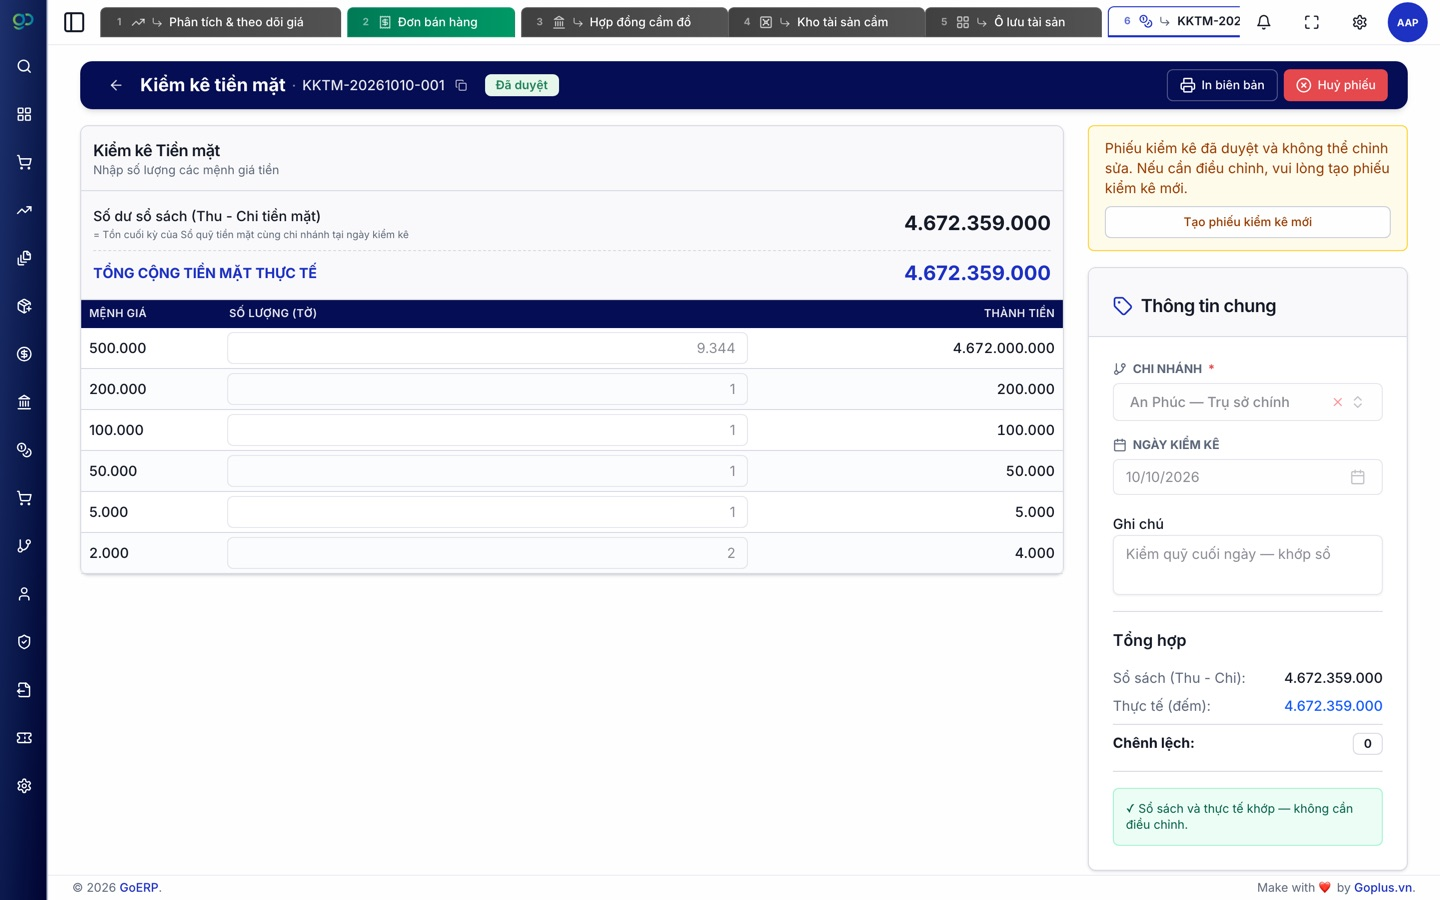
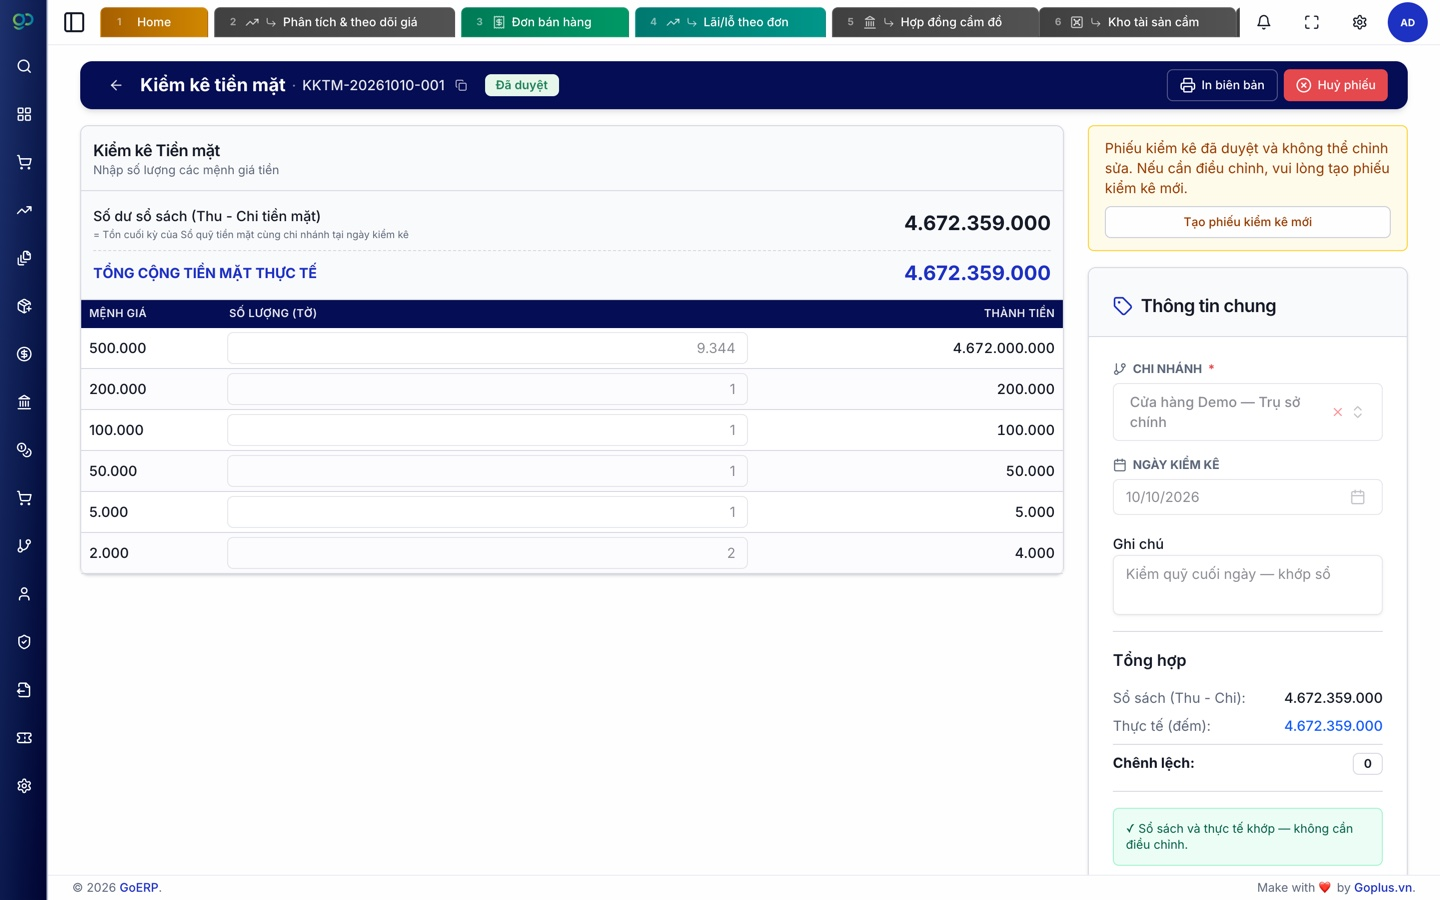
chore: use generic Cua hang Demo store name, anonymize customer data, and replace GoEat link in footer

diff --git a/src/components/vb-shared.tsx b/src/components/vb-shared.tsx
@@ -44,7 +44,6 @@ export const CONTACT = {
 }
 
 export const GOPLUS_URL = "https://goplus.vn"
-export const GOEAT_URL = "https://goeat.vn"
 
 export const HEADING_STYLE = {
   fontSize: "clamp(1.65rem, 2.6vw, 2.25rem)",
@@ -584,7 +583,7 @@ export const FEATURE_MODULES = [
     ],
     example:
       "9:15 nguồn tăng bạc miếng thêm 10.000đ/lượng → cả 5 chi nhánh hiện giá mới; đơn chốt lúc 9:10 vẫn tính giá cũ.",
-    src: "/images/screens/gia-bac-thi-truong.jpg",
+    src: "/images/screens/gia-bac-thi-truong.jpg?v=3",
     alt: "Biểu đồ giá bán, giá mua của tiệm so với giá bạc thế giới",
   },
   {
@@ -607,7 +606,7 @@ export const FEATURE_MODULES = [
     ],
     example:
       "Khách mua 2 lượng bạc miếng, quét QR trả 2.360.000đ → ngân hàng báo có, đơn tự chuyển sang đã thanh toán.",
-    src: "/images/screens/quay-phu-quy.jpg",
+    src: "/images/screens/quay-phu-quy.jpg?v=3",
     alt: "Quầy bán bạc và vàng Phú Quý: thẻ sản phẩm có giá mua, giá bán theo bảng giá; giỏ hàng chuyển qua lại Bán hàng, Thu mua",
   },
   {
@@ -639,7 +638,7 @@ export const FEATURE_MODULES = [
     ],
     example:
       "Khách đặt hợp đồng 10 lượng bạc hẹn giao tuần sau, nay giá tăng muốn bán lại ngay → bấm Mua lại hợp đồng để tất toán và tính chênh lệch tự động.",
-    src: "/images/screens/don-ban-thu-tien.jpg",
+    src: "/images/screens/don-ban-thu-tien.jpg?v=3",
     alt: "Danh sách đơn bán hàng và hợp đồng vật chất: tiền cọc, phần chưa thanh toán và tổng tiền từng đơn",
   },
   {
@@ -671,7 +670,7 @@ export const FEATURE_MODULES = [
     ],
     example:
       "Khách chốt đơn SO-AU-261014-0002 → tạo đơn đặt Phú Quý YD2610140918K ngay trên phần mềm, hiện rõ chiết khấu 5.633.000đ và biên lời +2,45%.",
-    src: "/images/screens/dat-hang-phu-quy.jpg?v=2",
+    src: "/images/screens/dat-hang-phu-quy.jpg?v=3",
     alt: "Danh sách đơn đặt hàng kết nối hệ thống Phú Quý: mã đơn Phú Quý, chiết khấu đại lý và biên lời từng đơn",
   },
   {
@@ -703,7 +702,7 @@ export const FEATURE_MODULES = [
     ],
     example:
       "Trong ca sáng thu mua 5 đơn bạc thỏi từ khách → bấm Tạo bán lại, hệ thống khớp phiên và trả về mã BYD2610140912K kèm giá trị chốt.",
-    src: "/images/screens/mua-ban-lai-phu-quy.jpg?v=2",
+    src: "/images/screens/mua-ban-lai-phu-quy.jpg?v=3",
     alt: "Màn hình quản lý bán lại Phú Quý: trạng thái đã bán lại đủ, bán lại một phần và mã đơn bán lại BYD",
   },
   {
@@ -729,7 +728,7 @@ export const FEATURE_MODULES = [
     ],
     example:
       "Nhẫn 18K nặng 1,25 chỉ, giá tuổi 18K 6.200.000đ/chỉ, tiền công 300.000đ → khách trả 8.050.000đ.",
-    src: "/images/screens/ban-vang-tuoi.jpg",
+    src: "/images/screens/ban-vang-tuoi.jpg?v=3",
     alt: "Quầy vàng truyền thống: mỗi món ghi khối lượng × giá tuổi vàng, cộng tiền công, tiền đá",
   },
   {
@@ -762,7 +761,7 @@ export const FEATURE_MODULES = [
     ],
     example:
       "Chọn Kiềng cưới 9999 chạm rồng phượng 5 chỉ, công 1.200.000đ → bấm Gửi máy in, tem 2 cánh ra ngay trong 1 giây.",
-    src: "/images/screens/in-tem-kim-hoan.jpg?v=2",
+    src: "/images/screens/in-tem-kim-hoan.jpg?v=3",
     alt: "Màn hình in tem kim hoàn TSPL/ZPL với khung xem trước tem trang sức 2 cánh",
   },
   {
@@ -785,7 +784,7 @@ export const FEATURE_MODULES = [
     ],
     example:
       "Khách bán nhẫn 18K cân 2,35 chỉ, đá 0,12 chỉ → tính 2,23 chỉ × giá thu 18K; đổi lấy dây mới thì chỉ trả phần chênh.",
-    src: "/images/screens/thu-mua-can.jpg",
+    src: "/images/screens/thu-mua-can.jpg?v=3",
     alt: "Giỏ thu mua ba món: dây chuyền 18K cân 3,25 chỉ, trừ đá 0,18 chỉ, trừ dơ 0,04 chỉ, ra tiền trả khách",
   },
   {
@@ -794,7 +793,7 @@ export const FEATURE_MODULES = [
     name: "Cầm đồ",
     when: "Có khách",
     scope: "Cầm đồ",
-    brief: "Tính lãi phí theo ngày, nhắc hạn chuộc qua Zalo.",
+    brief: "Tính lãi phí, nhắc hạn chuộc qua Zalo.",
     title: "Hợp đồng cầm đồ: đúng lãi phí, tự nhắc hạn chuộc",
     text: "Nhận tài sản, giao tiền cầm theo gói lãi phí và hạn mức cầm của tiệm. Đóng lãi, gia hạn, chuộc đều tính theo số ngày thực tế, làm tròn lên 1.000đ.",
     points: [
@@ -808,7 +807,7 @@ export const FEATURE_MODULES = [
     ],
     example:
       "Cầm 15.000.000đ, gói 1,5%/tháng, chuộc sau 20 ngày → lãi phí 150.000đ; còn 3 ngày tới hạn khách đã nhận tin Zalo nhắc.",
-    src: "/images/screens/hop-dong-cam.jpg",
+    src: "/images/screens/hop-dong-cam.jpg?v=3",
     alt: "Danh sách hợp đồng cầm đồ: tiền cầm, hạn chuộc, hợp đồng đang cầm và quá hạn",
   },
   {
@@ -828,7 +827,7 @@ export const FEATURE_MODULES = [
     ],
     example:
       "Kiểm kê cuối tuần đếm được 311/312 món → phiếu kiểm kê chỉ ra món còn lại đang trên đường chuyển sang chi nhánh 2.",
-    src: "/images/screens/o-luu-tai-san.jpg",
+    src: "/images/screens/o-luu-tai-san.jpg?v=3",
     alt: "Sơ đồ ô lưu tài sản cầm theo khu, ngăn: mỗi ô ghi số món đang giữ trên sức chứa",
   },
   {
@@ -859,7 +858,7 @@ export const FEATURE_MODULES = [
     ],
     example:
       "Kho chính Trụ sở lập phiếu PDC-261014-0002 chuyển 4 mã bạc thỏi sang Chi nhánh 2 → thủ kho Chi nhánh 2 xác nhận nhận đủ mới cộng tồn.",
-    src: "/images/screens/dieu-chuyen-kiem-ke-kho.jpg?v=2",
+    src: "/images/screens/dieu-chuyen-kiem-ke-kho.jpg?v=3",
     alt: "Danh sách phiếu điều chuyển kho giữa Kho chính Trụ sở, Quầy trưng bày và Kho Chi nhánh 2",
   },
   {
@@ -890,7 +889,7 @@ export const FEATURE_MODULES = [
     ],
     example:
       "Đợt Tuần lễ Vàng & Bạc Tháng 10 phát hành 12 mã, 6 mã đã dùng giúp kéo doanh thu đơn hàng từ 412,5 triệu lên 586,8 triệu đồng.",
-    src: "/images/screens/voucher-khuyen-mai.jpg?v=2",
+    src: "/images/screens/voucher-khuyen-mai.jpg?v=3",
     alt: "Màn hình quản lý kho voucher và đợt phát hành khuyến mãi kèm thống kê doanh thu",
   },
   {
@@ -921,7 +920,7 @@ export const FEATURE_MODULES = [
     ],
     example:
       "14:35 bạc thỏi 999 tăng 18.000đ/lượng → trong 3 giây cả 6 nhóm Zalo (hơn 3.000 thành viên) nhận ngay ảnh bảng giá mới kèm số hotline chốt đơn.",
-    src: "/images/screens/zalo-bot-bao-gia.jpg?v=2",
+    src: "/images/screens/zalo-bot-bao-gia.jpg?v=3",
     alt: "Bảng điều khiển Zalo Bot tự động sinh ảnh bảng giá vàng bạc và gửi vào các nhóm Zalo",
   },
   {
@@ -951,8 +950,8 @@ export const FEATURE_MODULES = [
       },
     ],
     example:
-      "Khách Lê Thị Cẩm Tú vừa chốt hợp đồng HD2610140005 → điện thoại khách nhận ngay tin Zalo OA xác nhận đơn và lịch hẹn giao ngày 19/10/2026.",
-    src: "/images/screens/zalo-oa-zns.jpg?v=2",
+      "Khách hàng vừa chốt hợp đồng HD2610140005 → điện thoại khách nhận ngay tin Zalo OA xác nhận đơn và lịch hẹn giao ngày 19/10/2026.",
+    src: "/images/screens/zalo-oa-zns.jpg?v=3",
     alt: "Nhật ký gửi tin nhắn Zalo OA (ZNS) tự động: xác nhận đơn hàng, mời khách nhận hàng và thông báo hoá đơn MISA",
   },
   {
@@ -971,7 +970,7 @@ export const FEATURE_MODULES = [
     ],
     example:
       "Cuối ngày kiểm quỹ chi nhánh 1 thiếu 200.000đ → sổ quỹ chỉ ra một phiếu chi đã lập nhưng chưa ai duyệt.",
-    src: "/images/screens/kiem-quy-menh-gia.jpg",
+    src: "/images/screens/kiem-quy-menh-gia.jpg?v=3",
     alt: "Phiếu kiểm kê tiền mặt: đếm theo từng mệnh giá, so với sổ quỹ, chênh lệch 0",
   },
   {
@@ -990,7 +989,7 @@ export const FEATURE_MODULES = [
     ],
     example:
       "Cuối tháng kế toán mở MISA đã thấy đủ chứng từ bán hàng của 5 chi nhánh, mã nào lệch thì danh sách đối soát chỉ ra.",
-    src: "/images/screens/lai-lo-tung-don.jpg",
+    src: "/images/screens/lai-lo-tung-don.jpg?v=3",
     alt: "Báo cáo lãi lỗ theo từng đơn: doanh thu, giá vốn, lãi và tỉ lệ lãi",
   },
 ] as const
@@ -1179,8 +1178,8 @@ export function VbFooter() {
           <Link href={FEATURES_HREF} className="hover:text-white">
             Chức năng
           </Link>
-          <a href={GOEAT_URL} className="hover:text-white">
-            GoEat , suất ăn công nghiệp
+          <a href={GOPLUS_URL} className="hover:text-white">
+            Hệ sinh thái Goplus
           </a>
         </div>
       </div>

diff --git a/src/components/vb-landing.tsx b/src/components/vb-landing.tsx
@@ -53,7 +53,7 @@ import {
 
 const SLIDE_MS = 6000
 
-/* Ảnh chụp trên DB dữ liệu mẫu (tiệm "An Phúc" bịa), không chụp từ app đang
+/* Ảnh chụp trên DB dữ liệu giả lập ("Cửa hàng Demo"), không chụp từ app đang
  * nối DB thật của khách. */
 const SLIDES = [
   {
@@ -63,7 +63,7 @@ const SLIDES = [
     title: "Bán theo giá vàng bạc thời gian thực, khoá giá chống trượt",
     text: "Mở giỏ hàng là giữ nguyên đơn giá tại giây bấm — đổi bảng giá giữa chừng đơn vẫn không trượt.",
     url: "vangbac.goplus.vn/vi/pos",
-    src: "/images/screens/quay-phu-quy.jpg",
+    src: "/images/screens/quay-phu-quy.jpg?v=3",
     alt: "Quầy POS bán hàng theo giá vàng bạc thời gian thực kèm đồng hồ khoá giá chống trượt giá",
     fit: "object-contain object-center",
   },
@@ -74,7 +74,7 @@ const SLIDES = [
     title: "Đặt đơn nối thẳng hệ thống Phú Quý, tính ngay biên lãi",
     text: "Tự lấy mã đơn YD...K, chiết khấu đại lý và đối chiếu lãi gộp trên từng đơn bán.",
     url: "vangbac.goplus.vn/vi/purchase-orders",
-    src: "/images/screens/dat-hang-phu-quy.jpg?v=2",
+    src: "/images/screens/dat-hang-phu-quy.jpg?v=3",
     alt: "Danh sách đơn đặt hàng kết nối trực tiếp hệ thống Phú Quý kèm chiết khấu và biên lợi nhuận",
     fit: "object-contain object-center",
   },
@@ -85,7 +85,7 @@ const SLIDES = [
     title: "Mua lại hợp đồng bạc & khớp phiên bán lại Phú Quý",
     text: "Thu mua lại hợp đồng bạc vật chất, theo dõi trạng thái bán lại và gom đơn vào phiên chốt lời.",
     url: "vangbac.goplus.vn/vi/resell-phu-quy",
-    src: "/images/screens/mua-ban-lai-phu-quy.jpg?v=2",
+    src: "/images/screens/mua-ban-lai-phu-quy.jpg?v=3",
     alt: "Quản lý đơn mua lại hợp đồng bạc Phú Quý và trạng thái bán lại BYD...K",
     fit: "object-contain object-center",
   },
@@ -96,7 +96,7 @@ const SLIDES = [
     title: "Mua bán vàng bạc truyền thống, in tem kim hoàn & thu mua",
     text: "Tính khối lượng × giá tuổi + công + đá, cân trừ đá trừ dơ và in tem 2 cánh chuẩn Thông tư 22.",
     url: "vangbac.goplus.vn/vi/gold/pos",
-    src: "/images/screens/ban-vang-tuoi.jpg",
+    src: "/images/screens/ban-vang-tuoi.jpg?v=3",
     alt: "Quầy vàng truyền thống tính khối lượng nhân giá tuổi cộng tiền công và tiền đá",
     fit: "object-contain object-center",
   },
@@ -107,7 +107,7 @@ const SLIDES = [
     title: "Hợp đồng cầm đồ, nhắc hạn chuộc & quản lý két tài sản",
     text: "Theo dõi tiền cầm, kỳ đóng lãi, hạn chuộc, định giá món cầm và vị trí két lưu giữ theo chi nhánh.",
     url: "vangbac.goplus.vn/vi/pawn",
-    src: "/images/screens/hop-dong-cam.jpg",
+    src: "/images/screens/hop-dong-cam.jpg?v=3",
     alt: "Danh sách hợp đồng cầm đồ với tiền cầm, lãi suất và hạn chuộc",
     fit: "object-contain object-center",
   },
@@ -118,7 +118,7 @@ const SLIDES = [
     title: "Bot tự gửi bảng giá vào nhóm Zalo & tin ZNS cho khách",
     text: "Giá nhảy là Bot tự vẽ bảng giá gửi vào các nhóm Zalo sỉ/lẻ; khách chốt đơn nhận ngay tin Zalo OA.",
     url: "vangbac.goplus.vn/vi/zalo-bot",
-    src: "/images/screens/zalo-bot-bao-gia.jpg?v=2",
+    src: "/images/screens/zalo-bot-bao-gia.jpg?v=3",
     alt: "Zalo Bot tự động gửi ảnh bảng giá vàng bạc vào các nhóm Zalo",
     fit: "object-contain object-center",
   },
